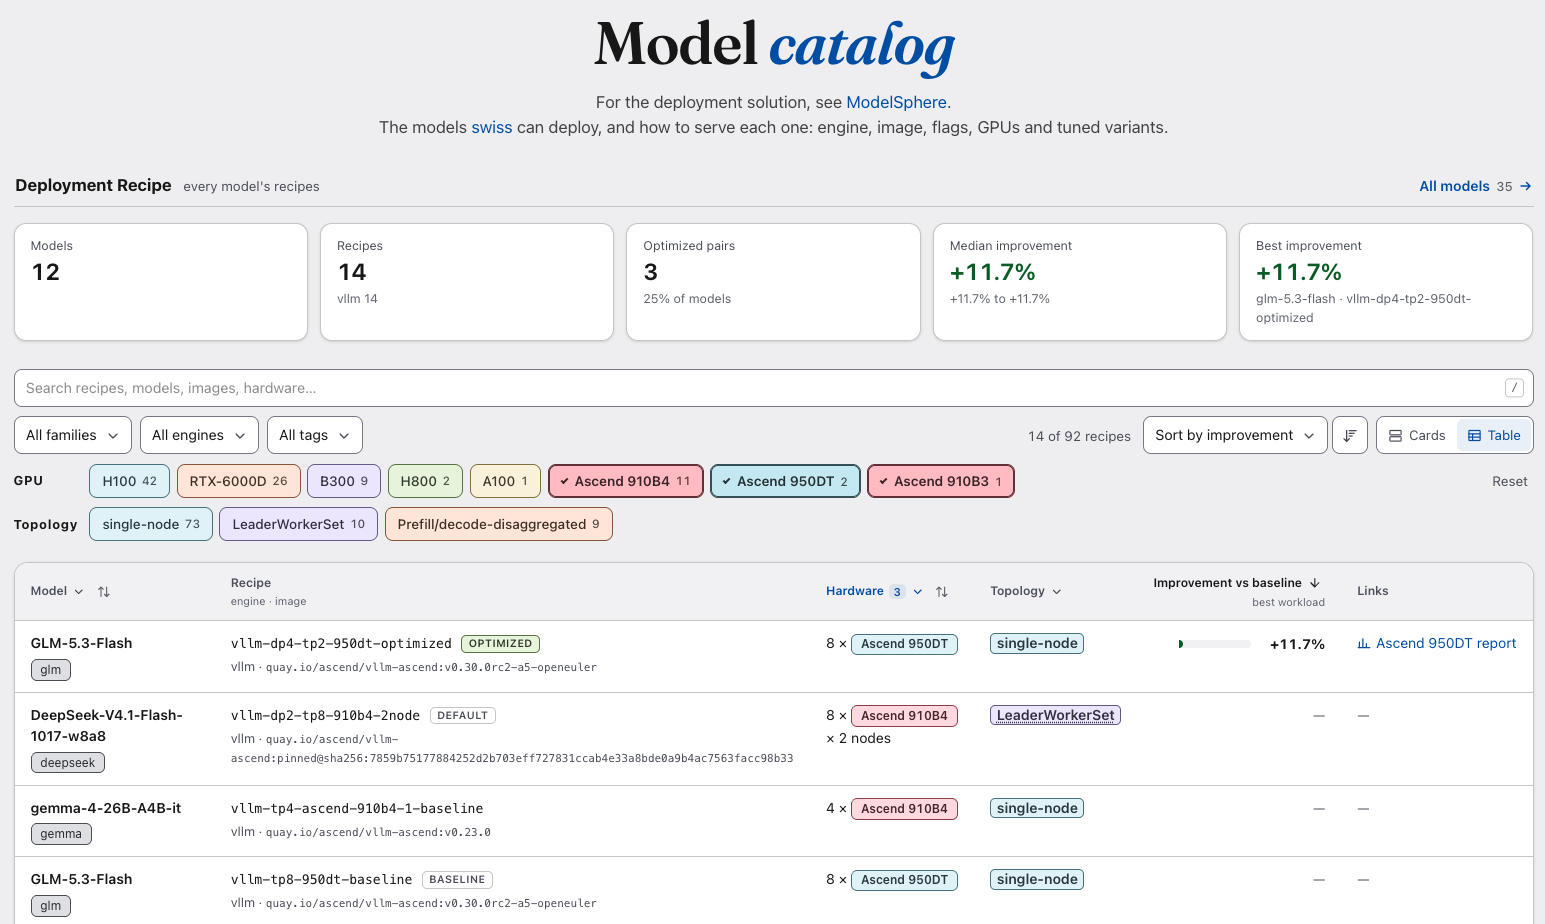
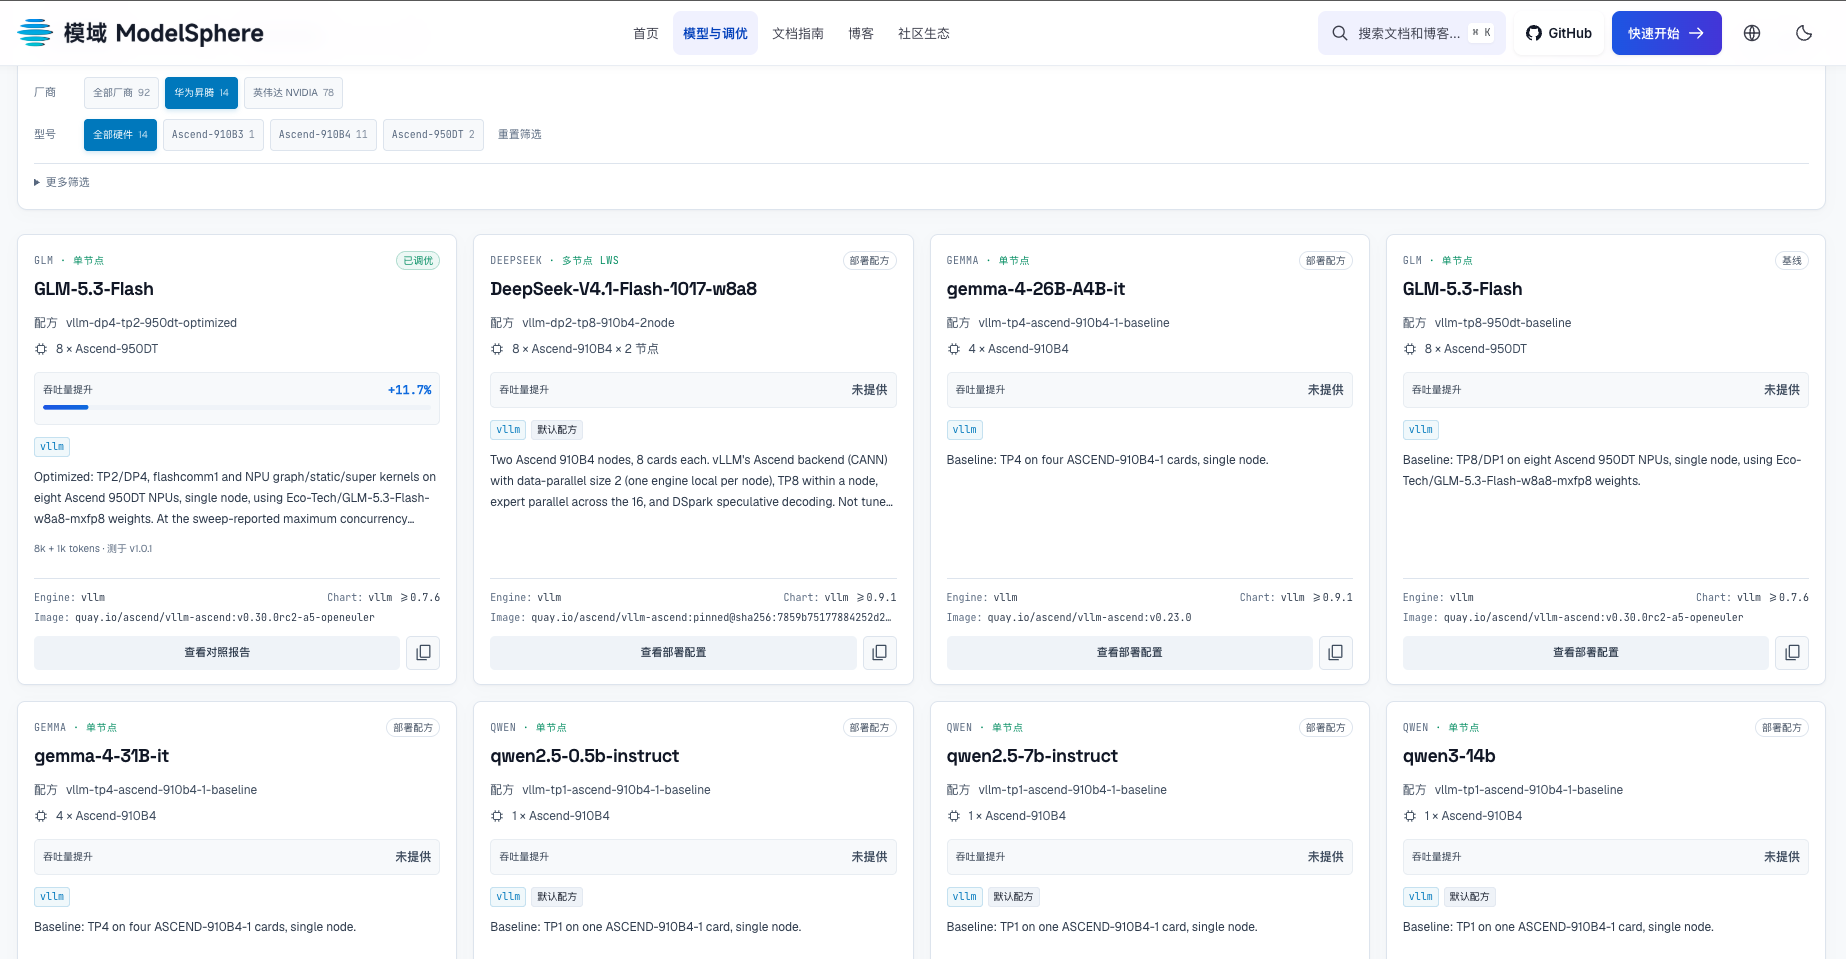
update results

diff --git a/content/blog/blog-20261104-ascend-support/index.md b/content/blog/blog-20261104-ascend-support/index.md
@@ -22,9 +22,9 @@ author: 罗平益
 
 ## 昇腾部署方案现已收录
 
-**[ModelSphere 模型目录](https://modelsphere.github.io/model-catalog/) 现已新增对信创算力的支持, 收录昇腾相关模型部署方案。** 用户可以在目录中查看面向不同模型和硬件的推理配置，了解部署所需的引擎、镜像、资源与参数，并在有性能数据的情况下比较基线方案和优化方案。
+**[ModelSphere 模型目录](https://modelsphere.tech/models) 现已新增对信创算力的支持, 收录昇腾相关模型部署方案。** 用户可以在目录中查看面向不同模型和硬件的推理配置，了解部署所需的引擎、镜像、资源与参数，并在有性能数据的情况下比较基线方案和优化方案。
 
-以 GLM-5.3-Flash 为例，ModelSphere 已收录基于昇腾 950DT 的基线和优化部署方案。针对推理负载，我们调整了并行策略，并启用了昇腾相关的通信与编译优化。在目录记录的 **50k 输入、1.5k 输出**测试负载下，优化方案相较基线的总吞吐量提升 **5.8%**；在 **8k 输入、1k 输出**负载下提升 **11.7%**。这一结果对应特定测试条件，实际表现会随负载和部署环境变化。
+以 GLM-5.3-Flash 为例，ModelSphere 已收录基于昇腾 950DT 的基线和优化部署方案。针对推理负载，我们调整了并行策略，并启用了昇腾相关的通信与编译优化。在目录记录的 **50k 输入、1.5k 输出**测试负载下，优化方案相较基线的总吞吐量提升 **53.5%**。这一结果对应特定测试条件，实际表现会随负载和部署环境变化。
 
 ![ModelSphere 模型目录中的昇腾部署方案](modelcatelog.png)
 
@@ -74,7 +74,7 @@ MoE 模型会将 token 路由到不同的专家。在张量并行与专家并行
 | 推理引擎       | vLLM-Ascend                                                                  |
 | 基线方案       | TP8、DP1                                                                     |
 | 优化方案       | TP2、DP4，结合通信与编译优化                                                 |
-| 测试负载与结果 | 50k 输入、1.5k 输出：总吞吐量提升 **5.8%**；8k 输入、1k 输出：提升 **11.7%** |
+| 测试负载与结果 | 50k 输入、1.5k 输出：总吞吐量提升 **53.5%**；8k 输入、1k 输出：提升 **11.7%** |
 
 上述结果比较了在首 token 延迟中位数不超过 20 秒、单请求输出速度不低于 5 token/秒的条件下，测试扫描得到的最大并发点的总吞吐量。测试尚未进行模型质量评估或重复验证。
 
